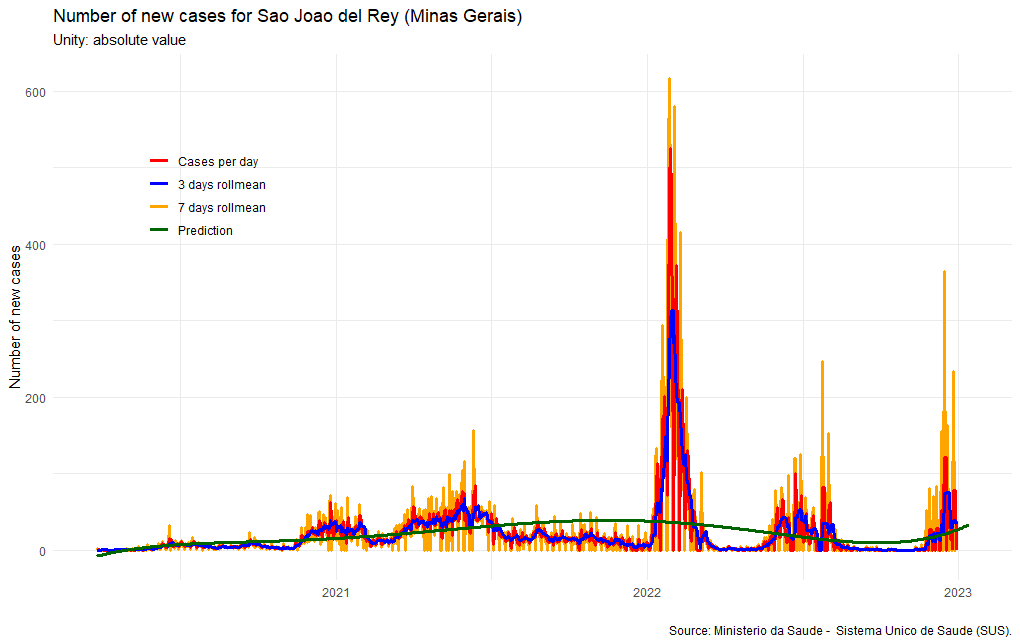
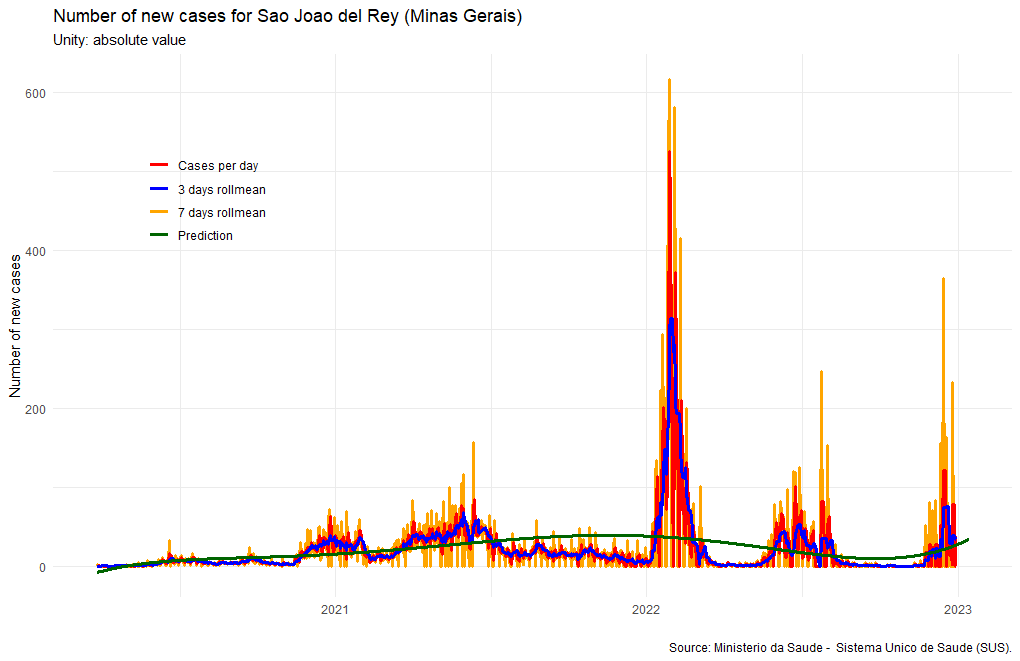
Update README file

diff --git a/README.md b/README.md
@@ -232,7 +232,7 @@ cases, respectively, for Brazil and for the municipality of Sao Joao del
 Rey (belonging to the state of Minas Gerais), a 3-day moving average, a
 7-day moving average and the forecast, obtained by polynomial
 interpolation of degree 5, covering the entire period plus 15 days (last
-day of observed data is 2022-12-29).
+day of observed data is 2022-12-30).
 
 <img src="man/figures/predCases.png" width="100%" />  
 
@@ -267,7 +267,7 @@ caused by Covid-19, respectively, for Brazil and for the municipality of
 Sao Joao del Rey (belonging to the state of Minas Gerais), a 3-day
 moving average, a 7-day moving average and the forecast, obtained by
 polynomial interpolation of degree 5, covering the entire period plus 15
-days (last day of observed data is 2022-12-29).
+days (last day of observed data is 2022-12-30).
 
 <img src="man/figures/predDeaths.png" width="100%" />  
 
